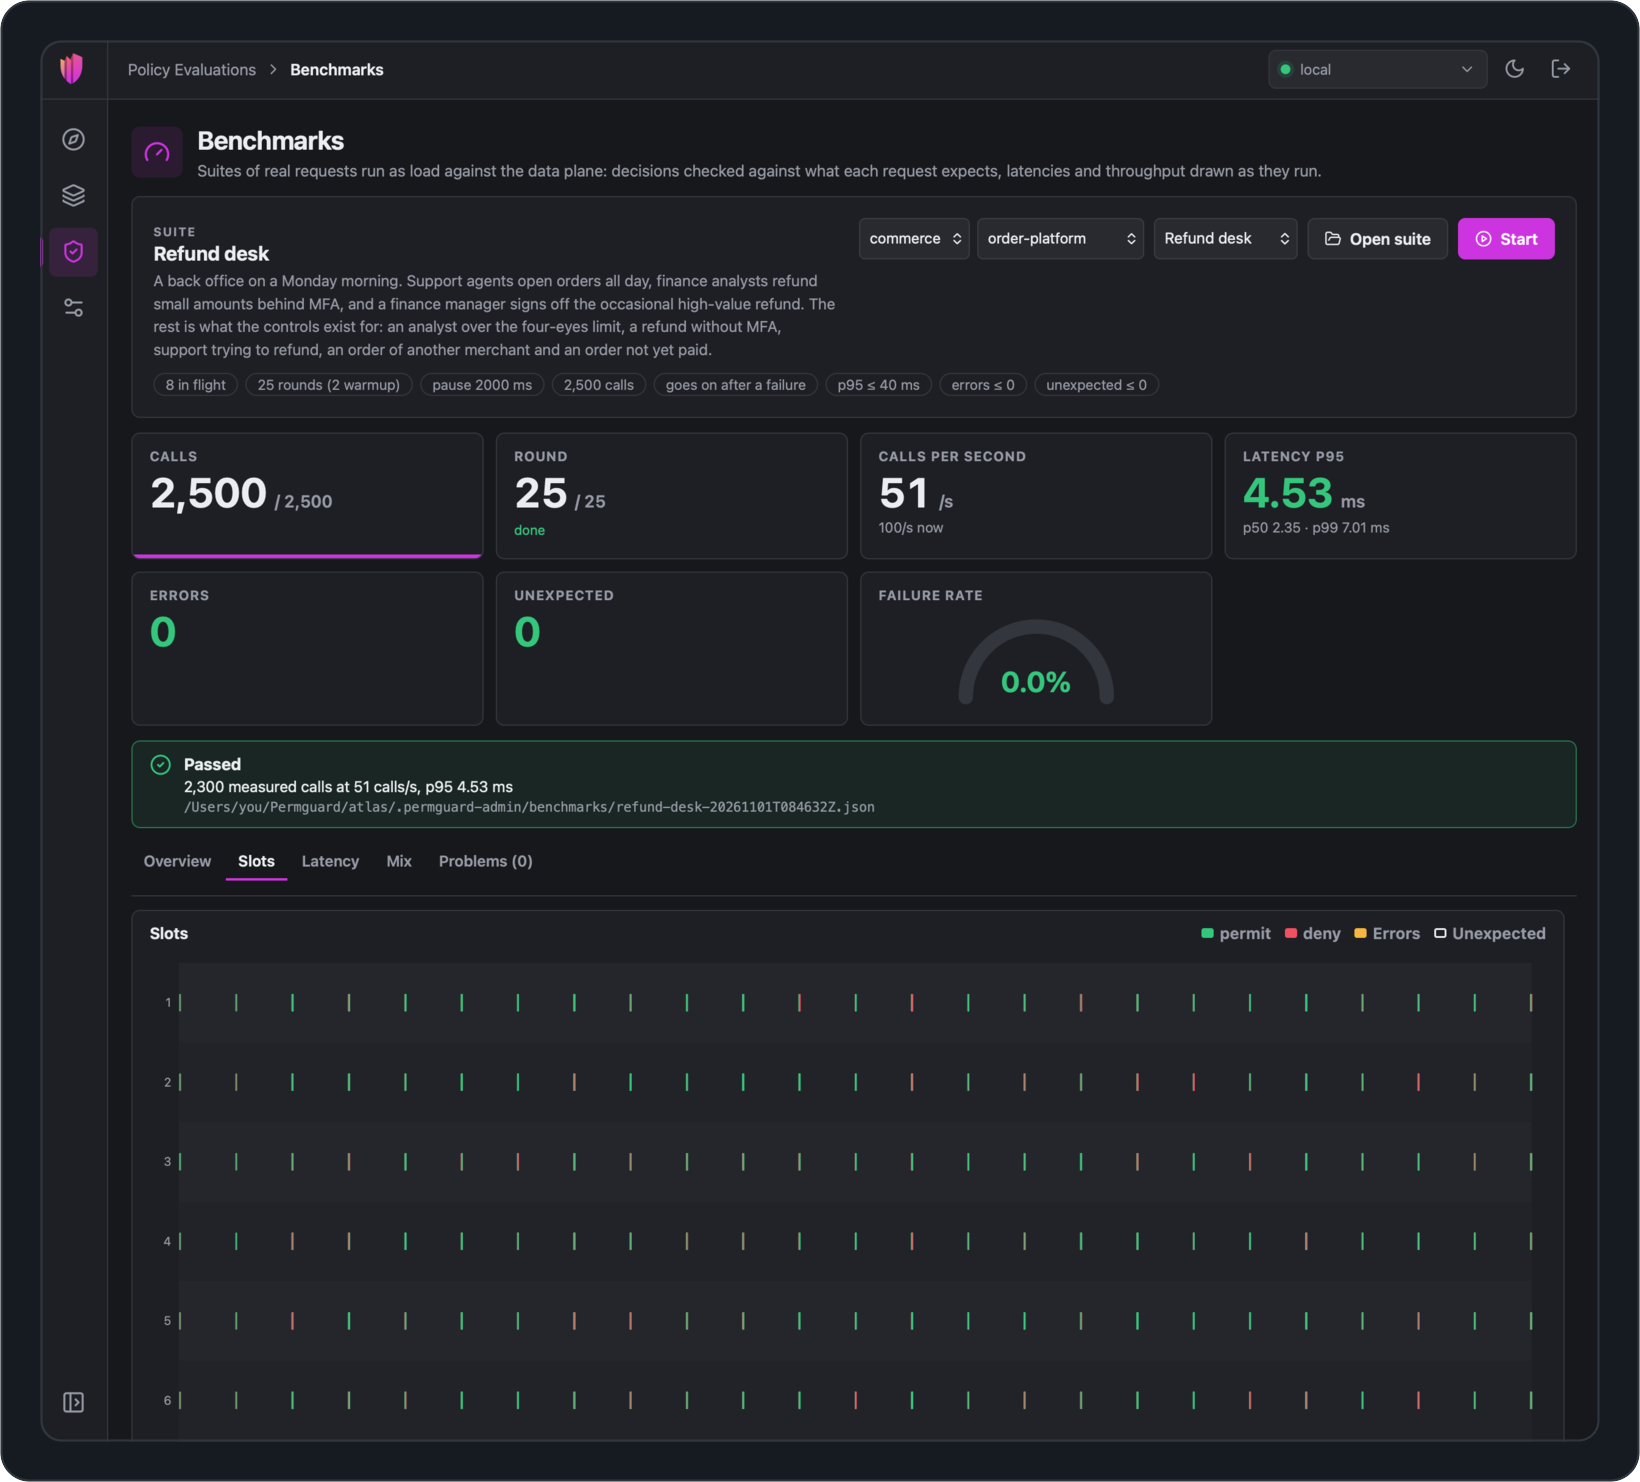
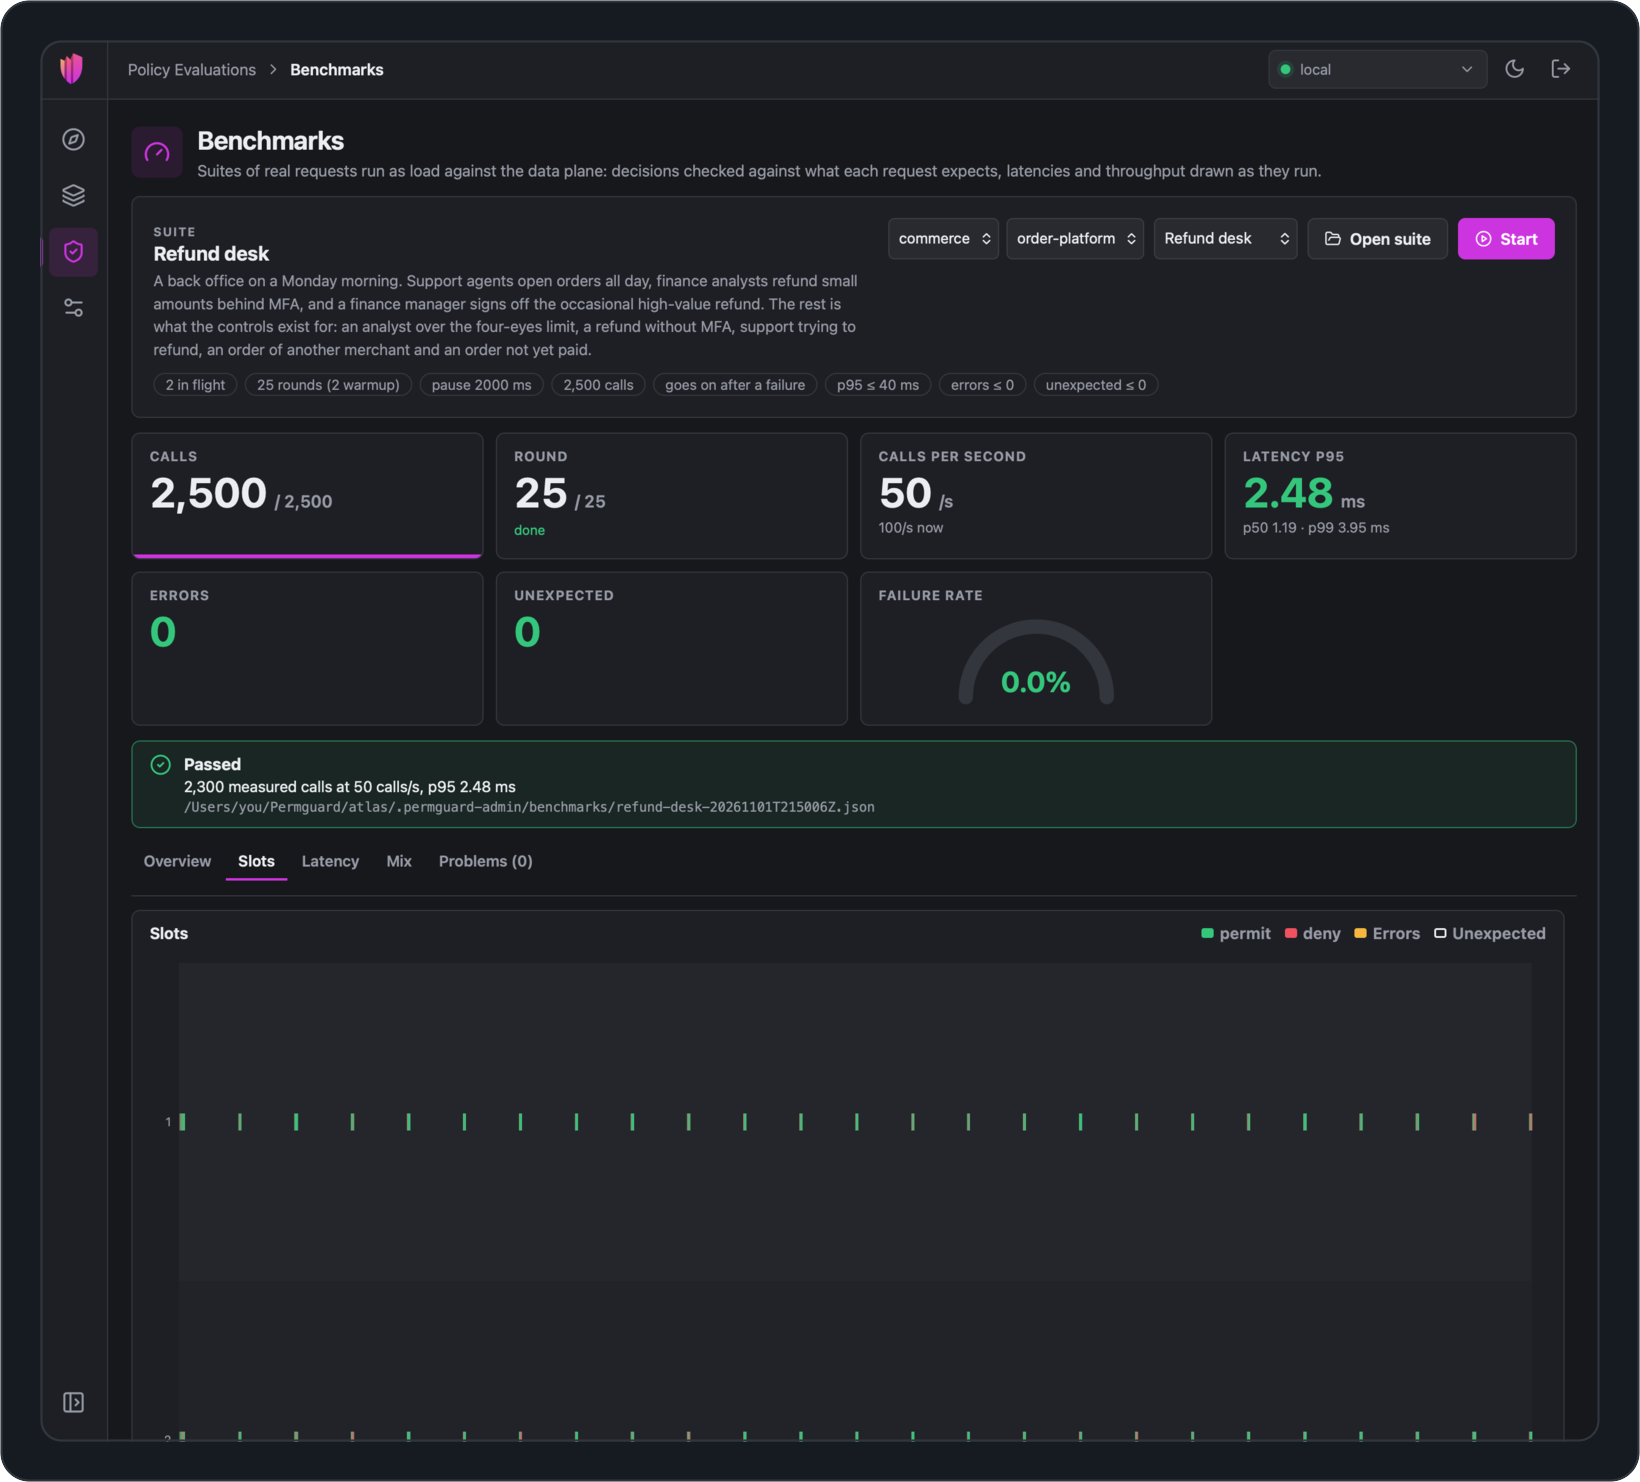
refactor: 'code refactoring to support new permguard admin features.'

diff --git a/README.md b/README.md
@@ -17,7 +17,7 @@ SPDX-License-Identifier: LicenseRef-Permguard-Admin-Binary
 </p>
 
 <p align="center">
-  <img src="assets/diagrams/deployment.png" alt="The deployment of a Permguard server, drawn by Permguard Admin from what the server publishes: Permguard Admin reaches the Host listener on 64719 over HTTP; inside the Server Host, the Control Plane on 64720 mirrors policies to the Data Plane on 64721, which ships decisions and events back; the Data Plane serves Cedar, Dogwood and Rego; below, the listeners control-http-grpc, data-http-grpc, host-api and telemetry." width="820">
+  <img src="assets/diagrams/deployment.png" alt="The deployment of a Permguard server, drawn by Permguard Admin from what the server publishes: Permguard Admin reaches the Host listener on 5443 over HTTP; inside the Server Host, the Control Plane on 6443 mirrors policies to the Data Plane on 7443, which ships decisions and events back; the Data Plane serves Cedar, Dogwood and Rego; below, the listeners control-http-grpc, data-http-grpc, host-api and telemetry." width="820">
 </p>
 
 <p align="center"><sub>Your server, drawn live: every plane, port, listener and flow, and how policies, decisions and events move between them.</sub></p>
@@ -40,7 +40,7 @@ Connect it to your Control Planes and manage them from one window: the server th
 No terminal, no curl, no guessing.
 
 <p align="center">
-  <img src="assets/screens/observe.png" alt="The Observe page: the server of the current control plane at 127.0.0.1:64719, active, over HTTP with mutual TLS, with its version, its round trip, a small topology of the Host, the Control Plane and the Data Plane, and a map of the surfaces to open." width="820">
+  <img src="assets/screens/observe.png" alt="The Observe page: the server of the current control plane at 127.0.0.1:5443, active, over HTTP with mutual TLS, with its version, its round trip, a small topology of the Host, the Control Plane and the Data Plane, and a map of the surfaces to open." width="820">
 </p>
 
 ## What you can do
@@ -66,14 +66,14 @@ Spot a spike, drag across it to zoom in, and the list below shows just those eve
 Open any event to see when it happened, under which policies and commit, and its full payload.
 
 <p align="center">
-  <img src="assets/screens/events.png" alt="The Events page over the last 24 hours: 788 events, 394 requests and 394 responses on a stacked timeline of the day; below, the stream, newest first, and an event of the refund workflow open in the inspector with its type, occurrence and acceptance times, ledger, profile, partition and commit." width="820">
+  <img src="assets/screens/events.png" alt="The Events page over the last 24 hours: 796 events, 398 requests and 398 responses on a stacked timeline of the day; below, the stream, newest first, and an event of the refund workflow open in the inspector with its type, occurrence and acceptance times, ledger, profile, partition and commit." width="820">
 </p>
 
 <details>
 <summary><b>Zoom into a spike</b></summary>
 
 <p align="center">
-  <img src="assets/screens/events-zoom.png" alt="The Events page zoomed by clicking a bar of the timeline to fifteen minutes: 36 events, with Zoom out and Clear focus; the pointer over one bar shows its period and its counts by kind, and the stream lists only the events of that period." width="820">
+  <img src="assets/screens/events-zoom.png" alt="The Events page zoomed by clicking a bar of the timeline to fifteen minutes: 18 events, with Zoom out and Clear focus; the pointer over one bar shows its period and its counts by kind, and the stream lists only the events of that period." width="820">
 </p>
 
 </details>
@@ -84,7 +84,7 @@ Every permit and every deny your data plane records, in one list.
 Search by subject, action, resource or policy, filter by time and outcome, and open any decision to see the policies and the commit behind it.
 
 <p align="center">
-  <img src="assets/screens/decision-logs.png" alt="The Decision logs page over the last 24 hours: 10,226 decisions, 7,156 permits and 3,070 denies, a p50 of 229 µs and a p95 of 565 µs, on a timeline of the day; below, the records of the control plane local, newest first, each with its time, ledger, outcome, subject, action, resource, policies and latency; the first record is open as JSON." width="820">
+  <img src="assets/screens/decision-logs.png" alt="The Decision logs page over the last 24 hours: 12,828 decisions, 9,015 permits and 3,813 denies, a p50 of 251 µs and a p95 of 570 µs, on a timeline of the day; below, the records of the control plane local, newest first, each with its time, ledger, outcome, subject, action, resource, policies and latency; the first record is open as JSON." width="820">
 </p>
 
 ### Keep your ledgers at hand
@@ -93,7 +93,7 @@ The Sync Center lists every ledger your control plane serves.
 Clone the ones you care about in one click, and Permguard Admin tells you the moment a new version is published, so you pull it when you are ready.
 
 <p align="center">
-  <img src="assets/screens/sync-center.png" alt="The Sync Center of the control plane local: commerce/order-platform is cloned and marked to sync, with Pull and Open; commerce/customer-care, commerce/payments-gateway and commerce/warehouse-fleet are remote, each with Clone." width="820">
+  <img src="assets/screens/sync-center.png" alt="The Sync Center of the control plane local: commerce/order-platform is cloned and up to date, with Open; commerce/customer-care, commerce/payments-gateway and commerce/warehouse-fleet are remote, each with Clone." width="820">
 </p>
 
 ### Read your policies as diagrams
@@ -156,14 +156,14 @@ Every answer is checked against the decision and the policies it should get, so 
 The playground ships three suites to start from.
 
 <p align="center">
-  <img src="assets/screens/benchmarks.png" alt="The Benchmarks page after a run of the Refund desk suite against commerce/order-platform: 2,500 calls in 25 rounds with 8 in flight, 51 calls per second, latency p95 4.53 ms with p50 2.35 ms, no errors, no unexpected decisions, a 0.0% failure rate and the verdict Passed; below, the calls per second and the response time over the run." width="820">
+  <img src="assets/screens/benchmarks.png" alt="The Benchmarks page after a run of the Refund desk suite against commerce/order-platform: 2,500 calls in 25 rounds with 2 in flight, 50 calls per second, latency p95 2.48 ms with p50 1.19 ms, no errors, no unexpected decisions, a 0.0% failure rate and the verdict Passed; below, the calls per second and the response time over the run." width="820">
 </p>
 
 <details>
 <summary><b>Every request of the suite, with its own figures</b></summary>
 
 <p align="center">
-  <img src="assets/screens/benchmarks-mix.png" alt="The Mix tab of the same run: each of the eight requests of the suite with its profile, weight, the decision and the policy it expects, the calls made, permits, denies, errors, unexpected decisions, and its own p50 and p95, about 2.3 ms and 4 to 5.3 ms." width="820">
+  <img src="assets/screens/benchmarks-mix.png" alt="The Mix tab of the same run: each of the eight requests of the suite with its profile, weight, the decision and the policy it expects, the calls made, permits, denies, errors, unexpected decisions, and its own p50 and p95, about 1.2 ms and 2.4 to 3 ms." width="820">
 </p>
 
 </details>
